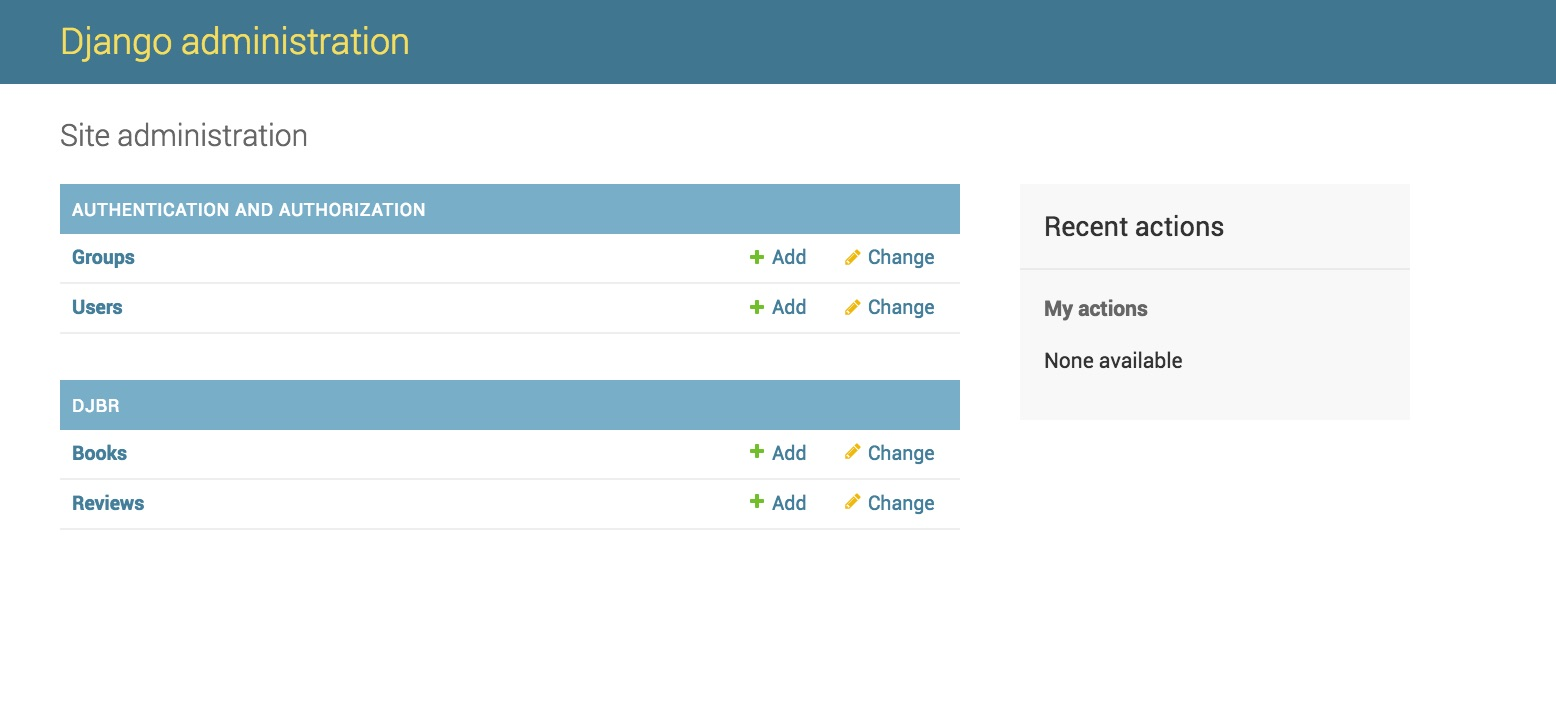
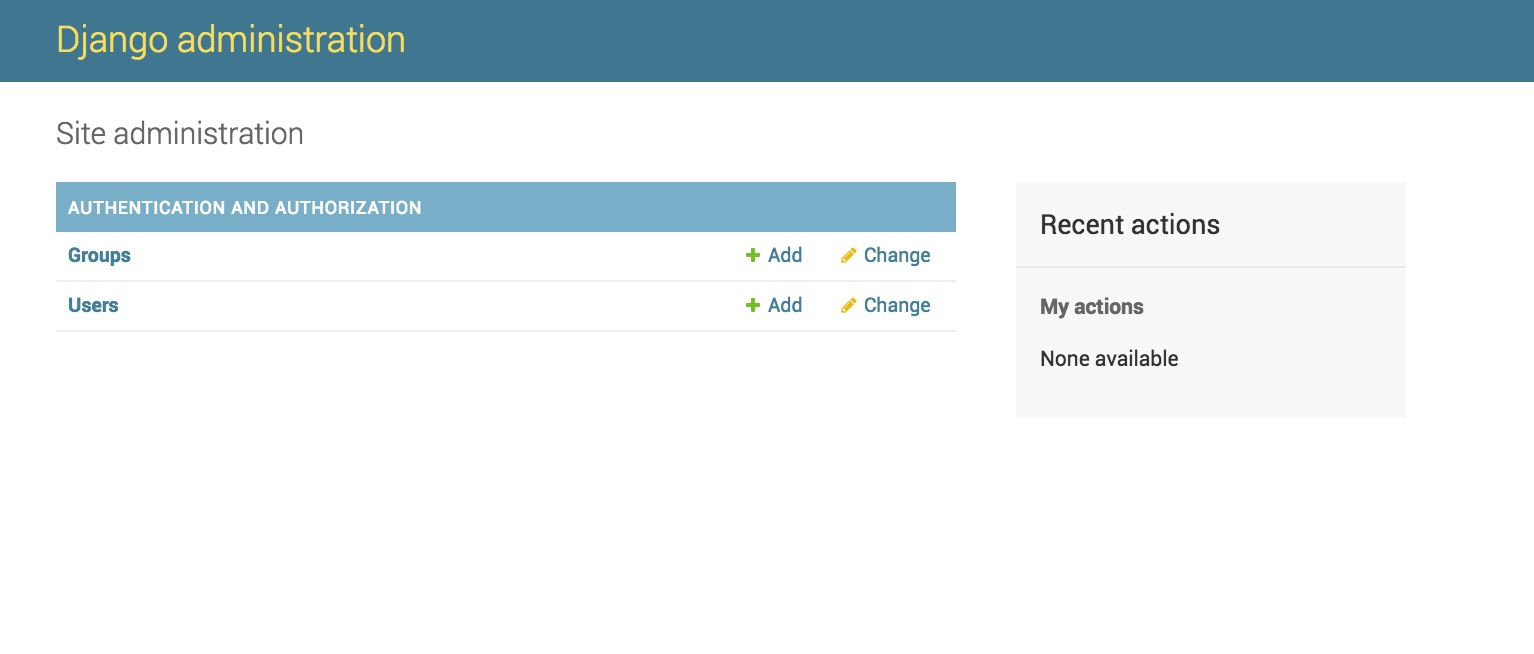
more on the admin site

diff --git a/django_1/django_1.md b/django_1/django_1.md
@@ -975,6 +975,23 @@ class Review(models.Model):
 
 # Django admin
 
+## Γενικά
+
+* Για κάθε εφαρμογή που φτιάχνουμε στο Django, το Django αυτόματα
+  δημιουργεί μια *εφαρμογή διαχείρισης* (admin app).
+
+* Με την εφαρμογή αυτή μπορούμε να διαχειριστούμε όλα τα αντικείμενα
+  της εφαρμογής μας με εύκολο τρόπο, μέσω του browser μας.
+
+<div class="notes">
+
+Η εφαρμογή διαχείρισης του Django είναι από τα πιο δημοφιλή
+χαρακτηριστικά του. Υπάρχουν προγραμματιστές για τους οποίους οι
+ευκολίες που παρέχει την καθιστούν βασικό παράγοντα επιλογής του
+Django για την εφαρμογή τους.
+
+</div>
+
 
 ## Δημιουργία διαχειριστή
 
@@ -1003,6 +1020,15 @@ class Review(models.Model):
     Superuser created successfully.
     ```
 
+<div class="notes">
+
+To Django έχει ενσωματωμένο ολοκληρωμένο σύστημα διαχείρισης χρηστών.
+Ανάμεσα στους χρήστες υπάρχει και ένας χρήστης με αυξημένα προνόμια, ο
+superuser, ο οποίος έχει πλήρη πρόσβαση σε όλες τις δυνατότητες της
+εφαρμογής διαχείρισης.
+
+</div>
+
 ## Πρόσβαση στην εφαρμογή διαχείρισης
 
 * Η εφαρμογή διαχείρισης είναι ήδη ενεργοποιημένη.
@@ -1020,10 +1046,24 @@ class Review(models.Model):
 
 ![admin login](./django_1/django_admin_1.jpg){ width=50% }
 
+
 <div class="notes">
 
-Στη σελίδα εισόδου εισάγουμε το όνομα χρήστη και τον κωδικό που
-ορίσαμε προηγουμένως.
+Εισάγουμε το όνομα και τον κωδικό του superuser που δημιουργήσαμε.
+
+</div>
+
+## Κεντρική σελίδα ελέγχου
+
+![main page](./django_1/django_admin_2.jpg){ width=70% }
+
+<div class="notes">
+
+Αφού πιστοποιηθούμε, θα μπούμε στην κεντρική σελίδα της εφαρμογής
+διαχείρισης, όπου όμως δεν θα δούμε τα αντικείμενα της εφαρμογής μας,
+αλλά άλλα αντικείμενα (Groups, Users) που συντηρεί το Django. Παρότι
+είναι πολύ χρήσιμα, προς το παρόν ας επικεντρωθούμε στα αντικείμενα
+που εμείς οι ίδιοι δημιουργούμε.
 
 </div>
 
@@ -1048,4 +1088,13 @@ class Review(models.Model):
 
 ## Κεντρική σελίδα ελέγχου
 
-![main page](./django_1/django_admin_2.jpg){ width=70% }
+![main page](./django_1/django_admin_3.jpg){ width=70% }
+
+<div class="notes">
+
+Μέσα από την εφαρμογή διαχείρισης μπορείτε να δημιουργήσετε νέα
+αντικείμενα, να αλλάξετε αντικείμενα, ή να διαγράψετε αντικείμενα.
+Αξίζει τον κόπο να αφιερώσετε λίγο χρόνο να εξερευνήσετε τη
+λειτουργικότητά της. 
+
+</div>
